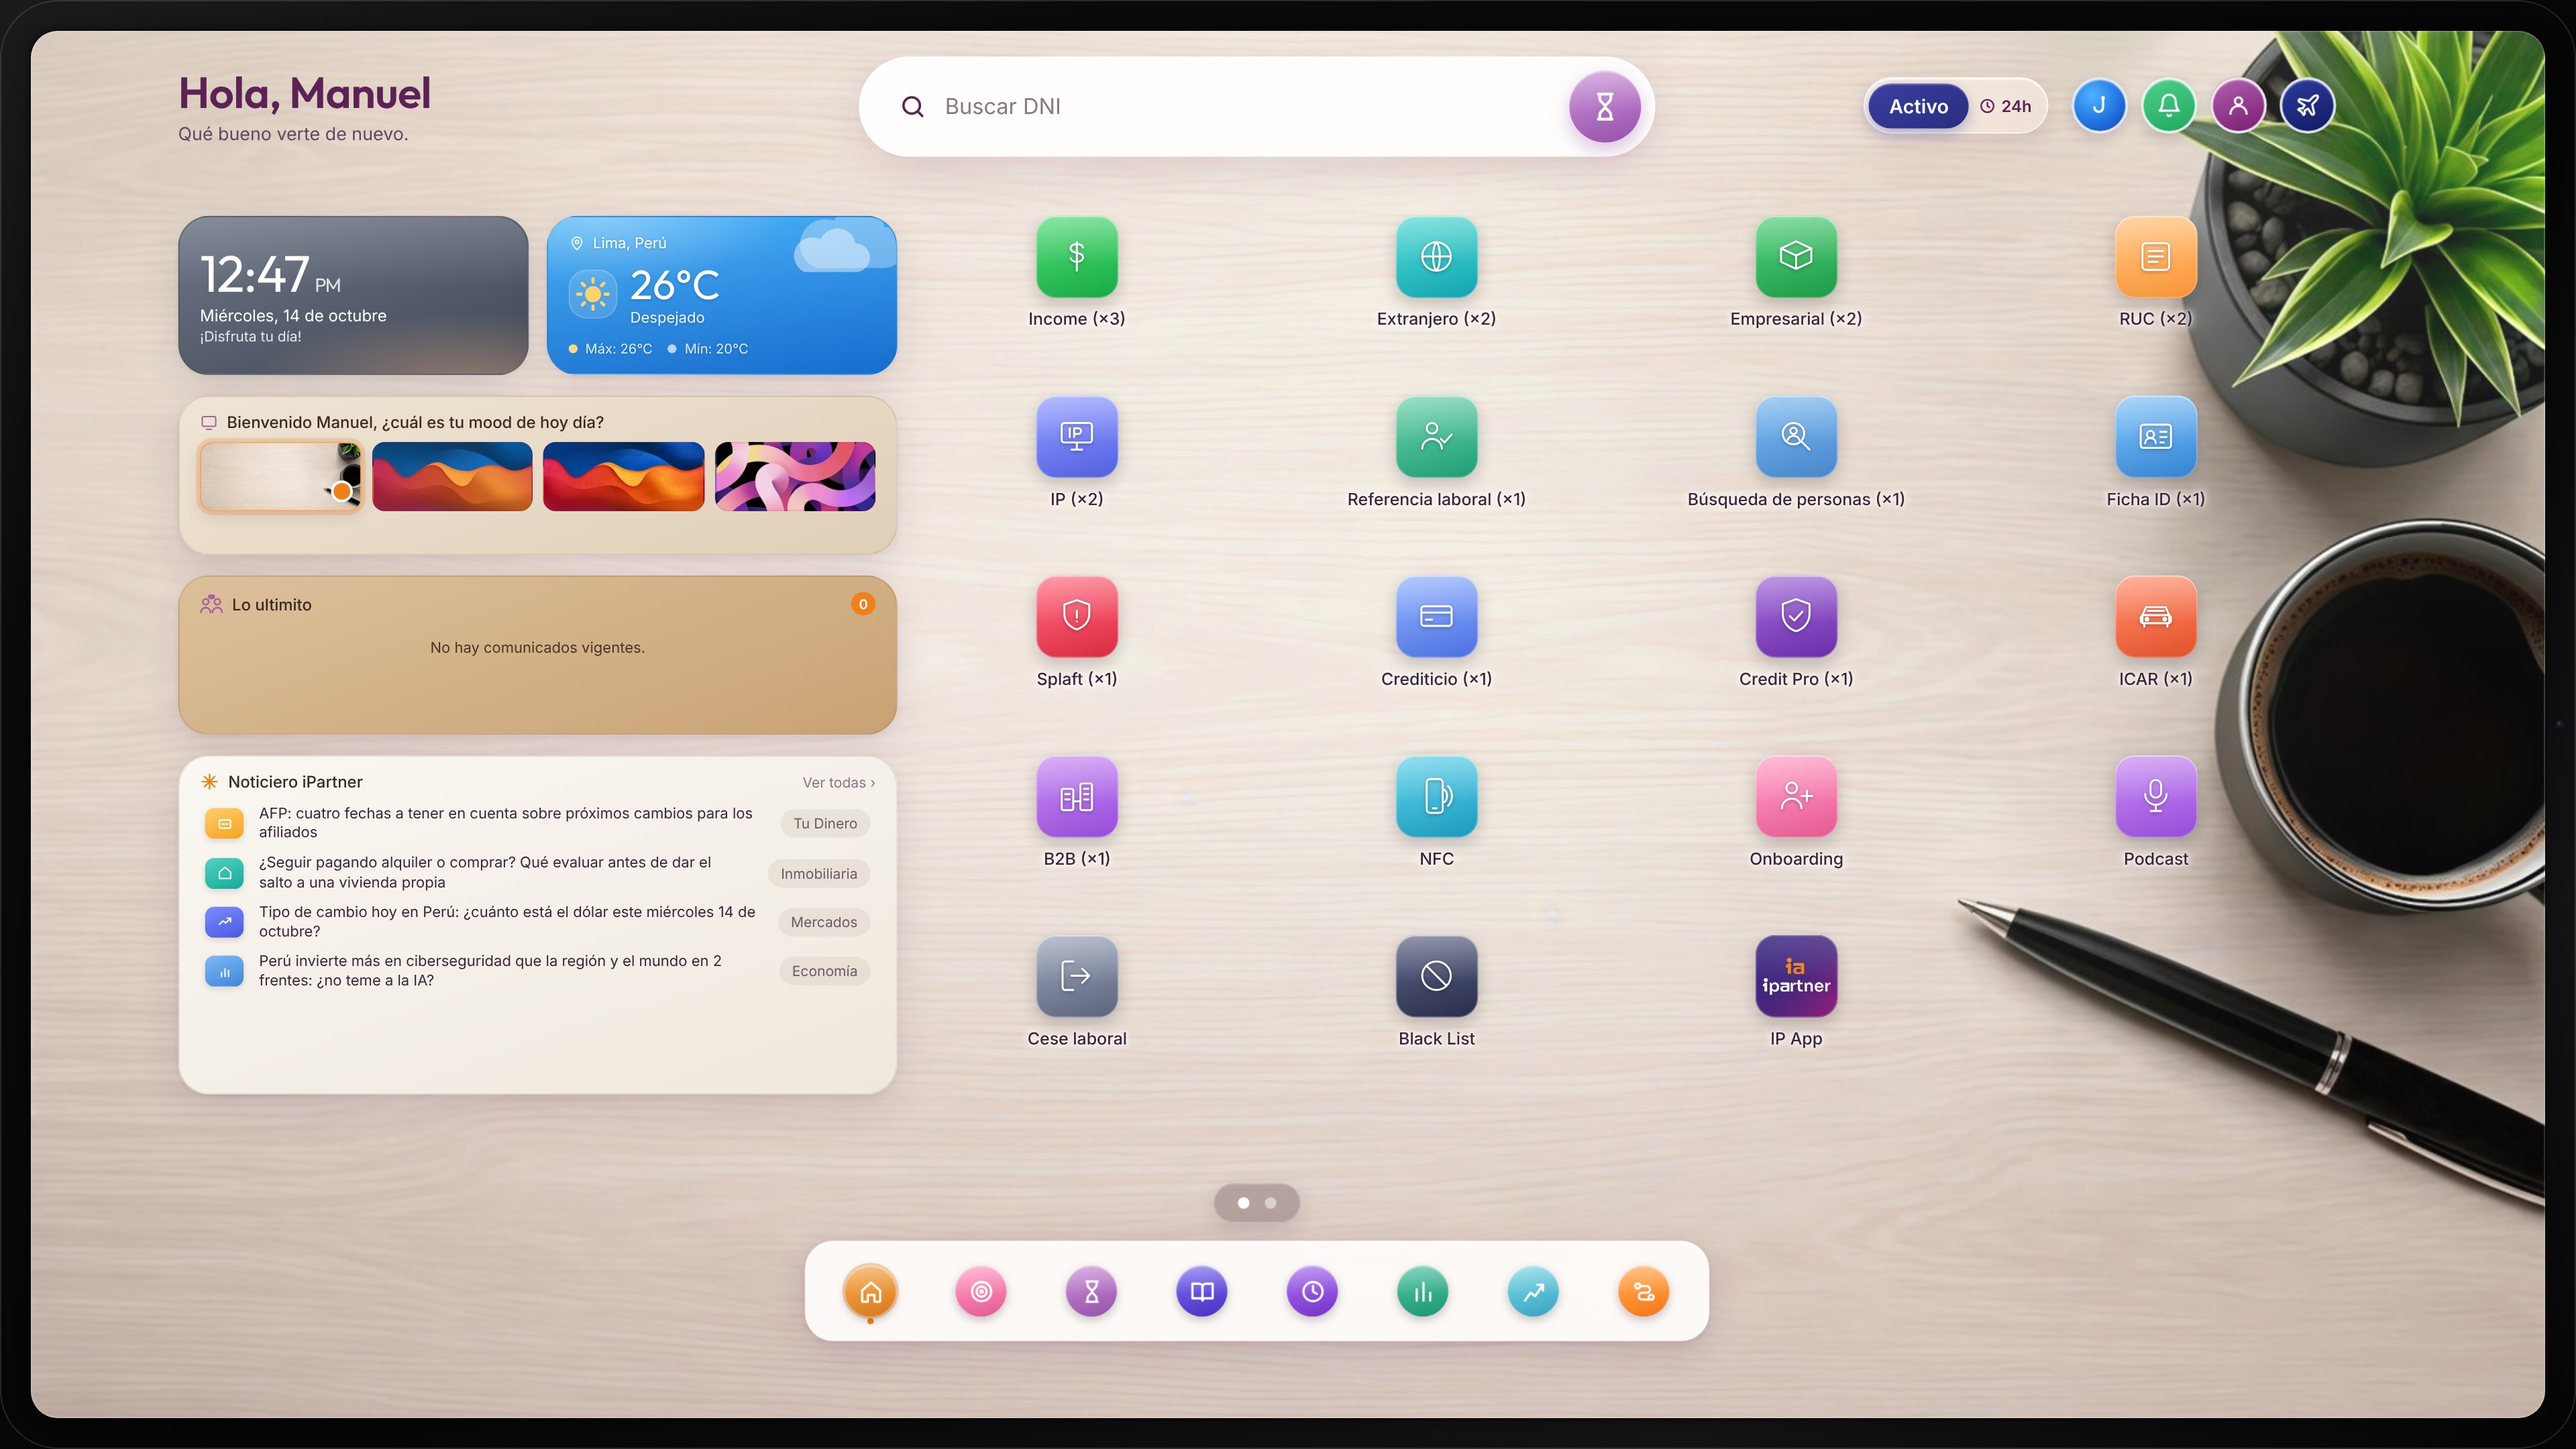
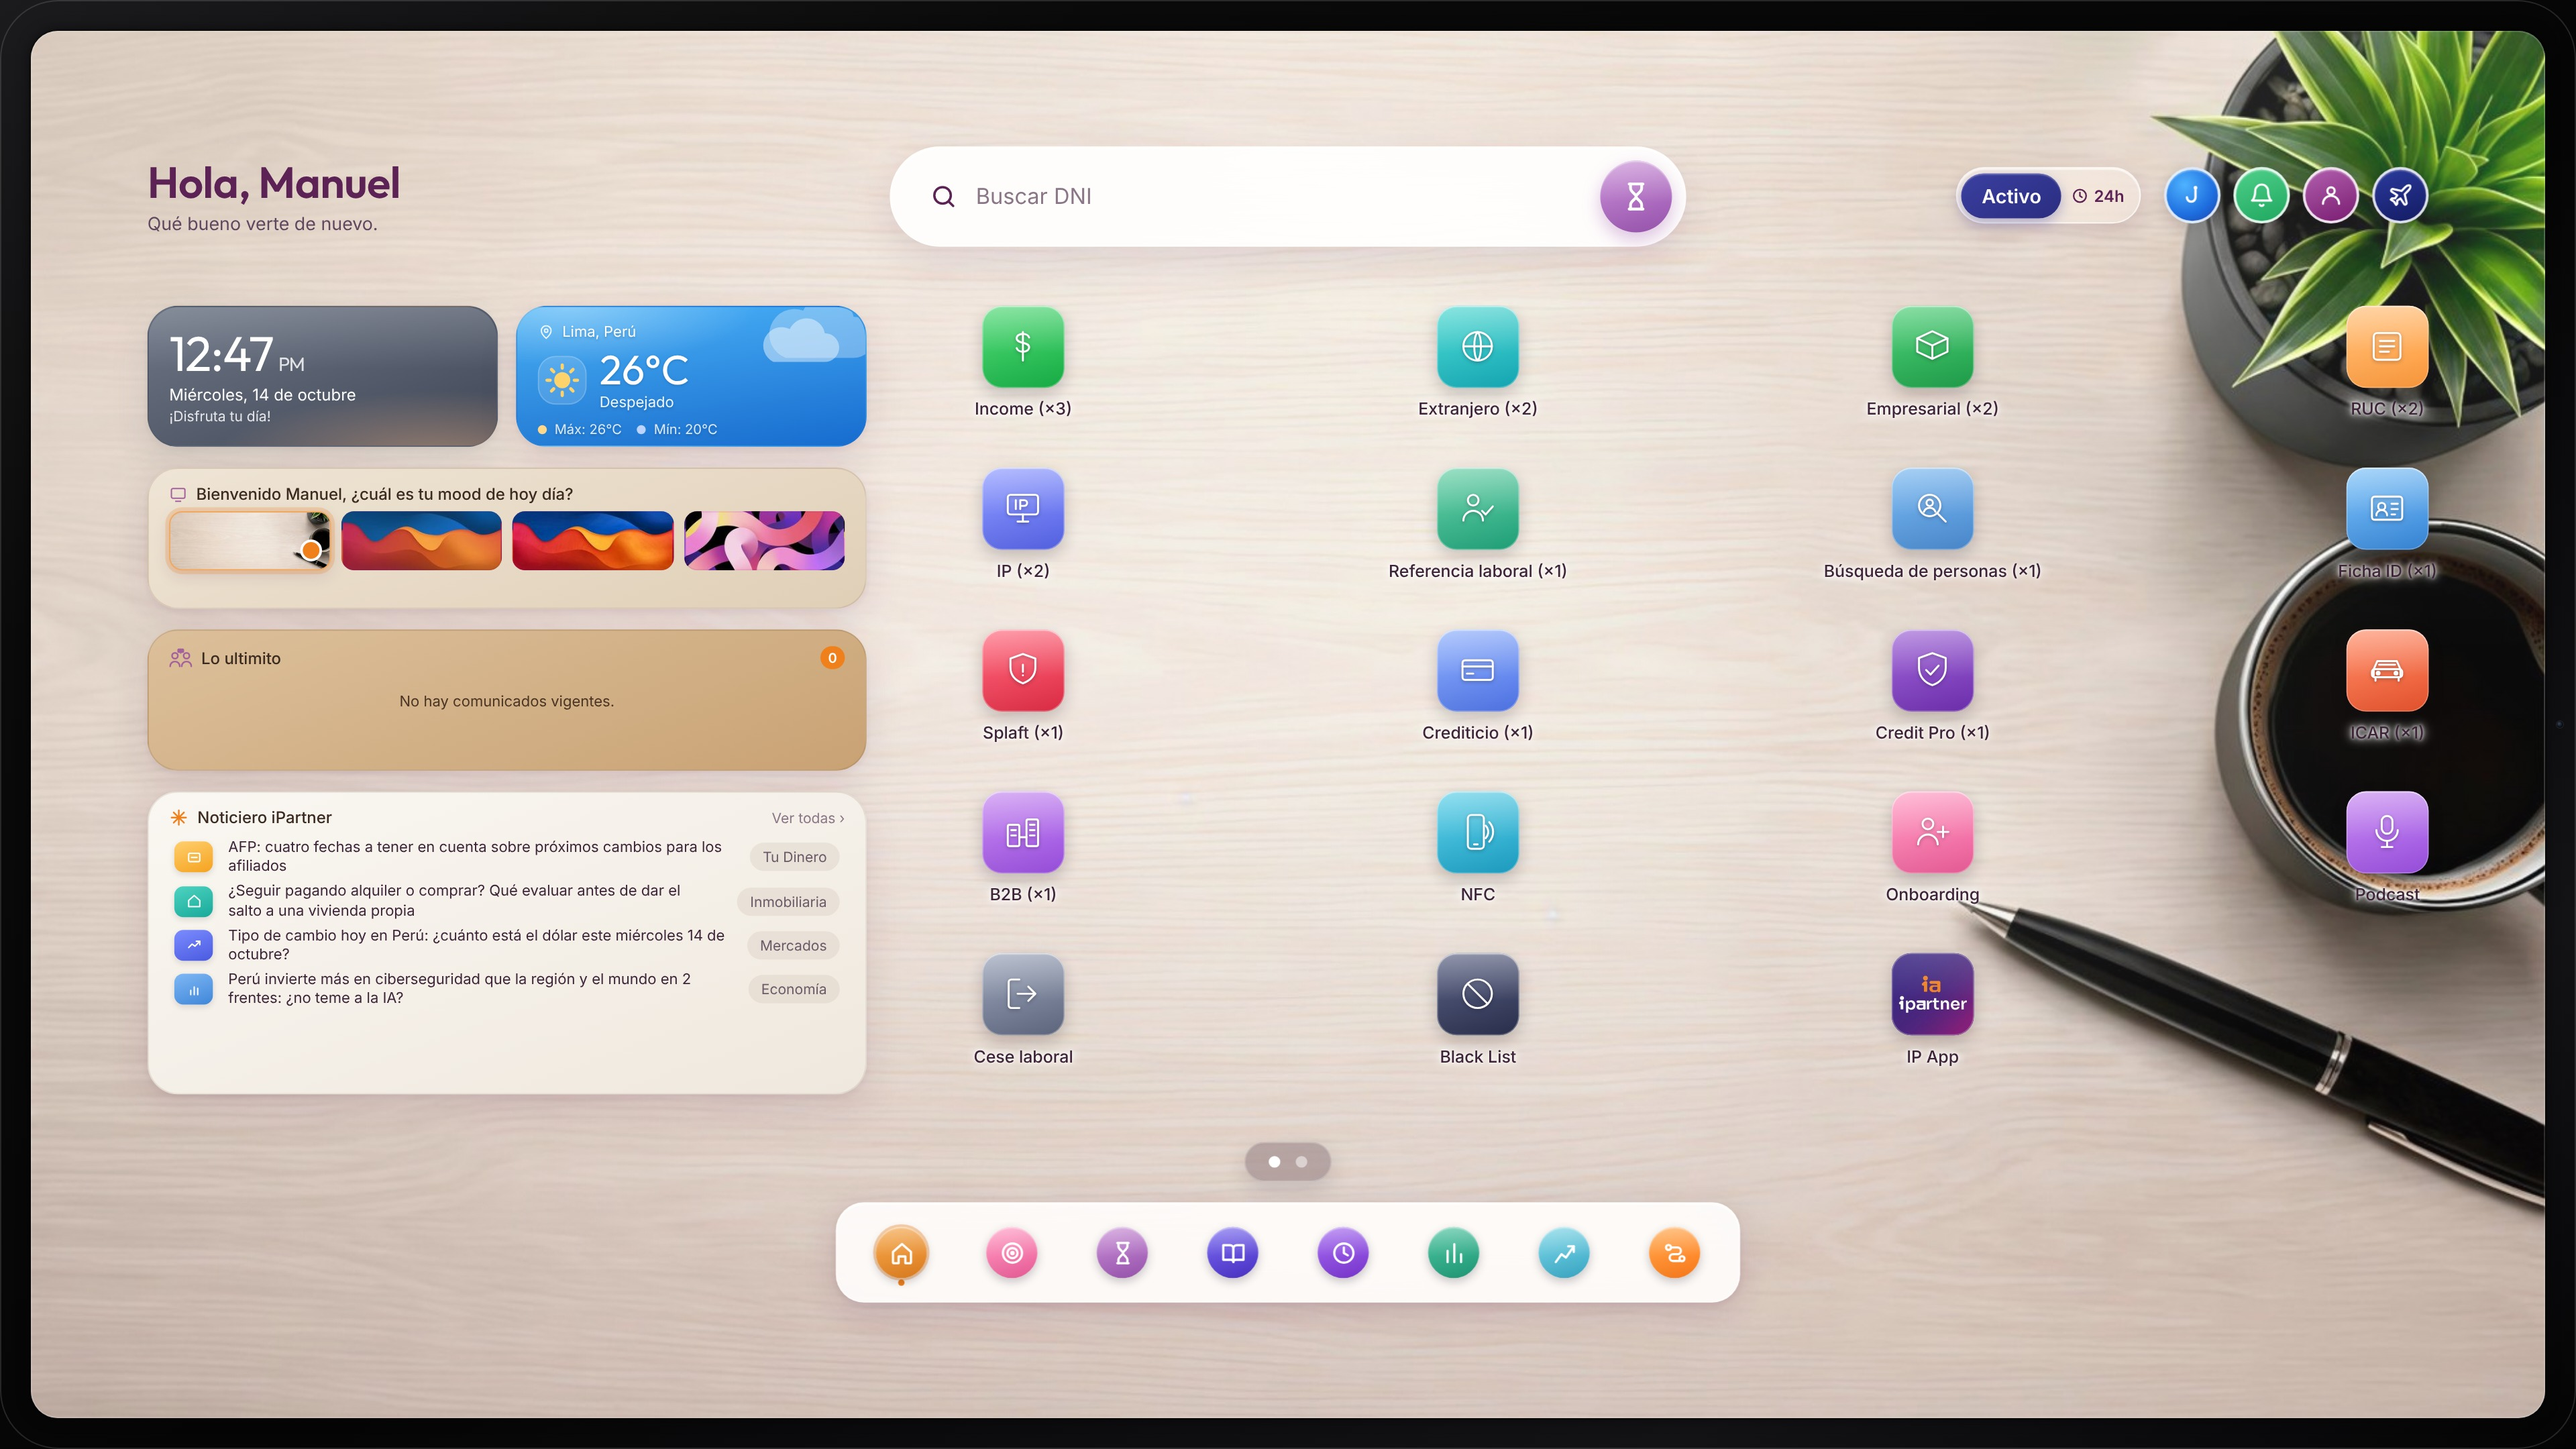
Home: propuesta iPad con márgenes iguales de 90px y verificación en CLAUDE.md
Cuatro márgenes de 90px, panel a 90px de los íconos, último ícono
alineado con el avión, barra/puntos/Dock centrados y widgets en las
filas de íconos. Se agrega a CLAUDE.md la verificación de márgenes y
alineación obligatoria antes de entregar.

Claude-Session: https://claude.ai/code/session_01KT8NTYu2Ge9wagQ7cc8Njn

diff --git a/home/propuestas/ipartner-home-ipad.html b/home/propuestas/ipartner-home-ipad.html
@@ -1215,6 +1215,27 @@ header{margin-bottom:44px}
 .tema{height:54px}
 .card.noticiero .noticia{padding:4px 4px}
 
+/* ===== Márgenes iguales y bordes alineados ===== */
+.app{margin-left:24px}                         /* centra el lienzo en la pantalla visible */
+.app{padding:84px 100px 60px!important}
+/* íconos de los extremos tocando el borde de la grilla (igual que el avión) */
+.pagina{grid-template-columns:repeat(4,var(--icon))!important;justify-content:space-between!important;justify-items:center!important;padding-left:116px!important}
+.app{padding:84px 72px 60px!important}
+.pagina{padding-left:90px!important;grid-auto-rows:134px!important}
+.fila-superior,.fila-superior .card,.card-mood,.card.novedades{height:118px!important}
+.card.noticiero{height:252px!important}
+.tema{height:50px}
+.app{padding:110px 72px 66px!important;margin-left:23px}
+.pagina{grid-auto-rows:126px!important}
+.fila-superior,.fila-superior .card,.card-mood,.card.novedades{height:110px!important}
+.card.noticiero{height:236px!important}
+.fila-superior .hora{font-size:38px!important}
+.tema{height:46px}
+.card-mood .titulo-card{margin-bottom:6px}
+.card.noticiero .noticia{padding:2px 4px}
+.puntos-pag{bottom:160px!important}
+.paginas{margin:0 -80px!important;padding:0 80px!important}.pista{gap:160px!important}
+
 </style>
 </head>
 <body data-tema="degradado">

diff --git a/CLAUDE.md b/CLAUDE.md
@@ -13,3 +13,12 @@ Skills instaladas en `.claude/skills/`, provenientes de:
 
 ## Decisiones pendientes para la plataforma (después del login)
 - Botón de cerrar ventanas estilo macOS ("semáforo": solo el círculo rojo, con la x al pasar el mouse). Se descartó en el login y se reserva para el interior de la plataforma.
+
+## Verificación obligatoria antes de entregar cualquier pantalla
+Medir en el navegador (lienzo 1920×1080, desde el borde visible de la pantalla) y no entregar si algo falla:
+1. Márgenes exteriores iguales en los 4 lados (izquierda = derecha = arriba = abajo).
+2. Espacios entre bloques iguales entre sí (borde → panel → íconos → borde).
+3. Bordes alineados: encabezado, barra, grilla y Dock comparten bordes o centro; los widgets empiezan y terminan en las filas de íconos.
+4. Mismo espacio entre todas las filas; nada se superpone (puntos, Dock, tarjetas) ni se corta (nombres de íconos).
+5. Mirar la captura: textos legibles sobre el fondo y nada encima de objetos de la foto.
+Reportar las medidas en la respuesta.
